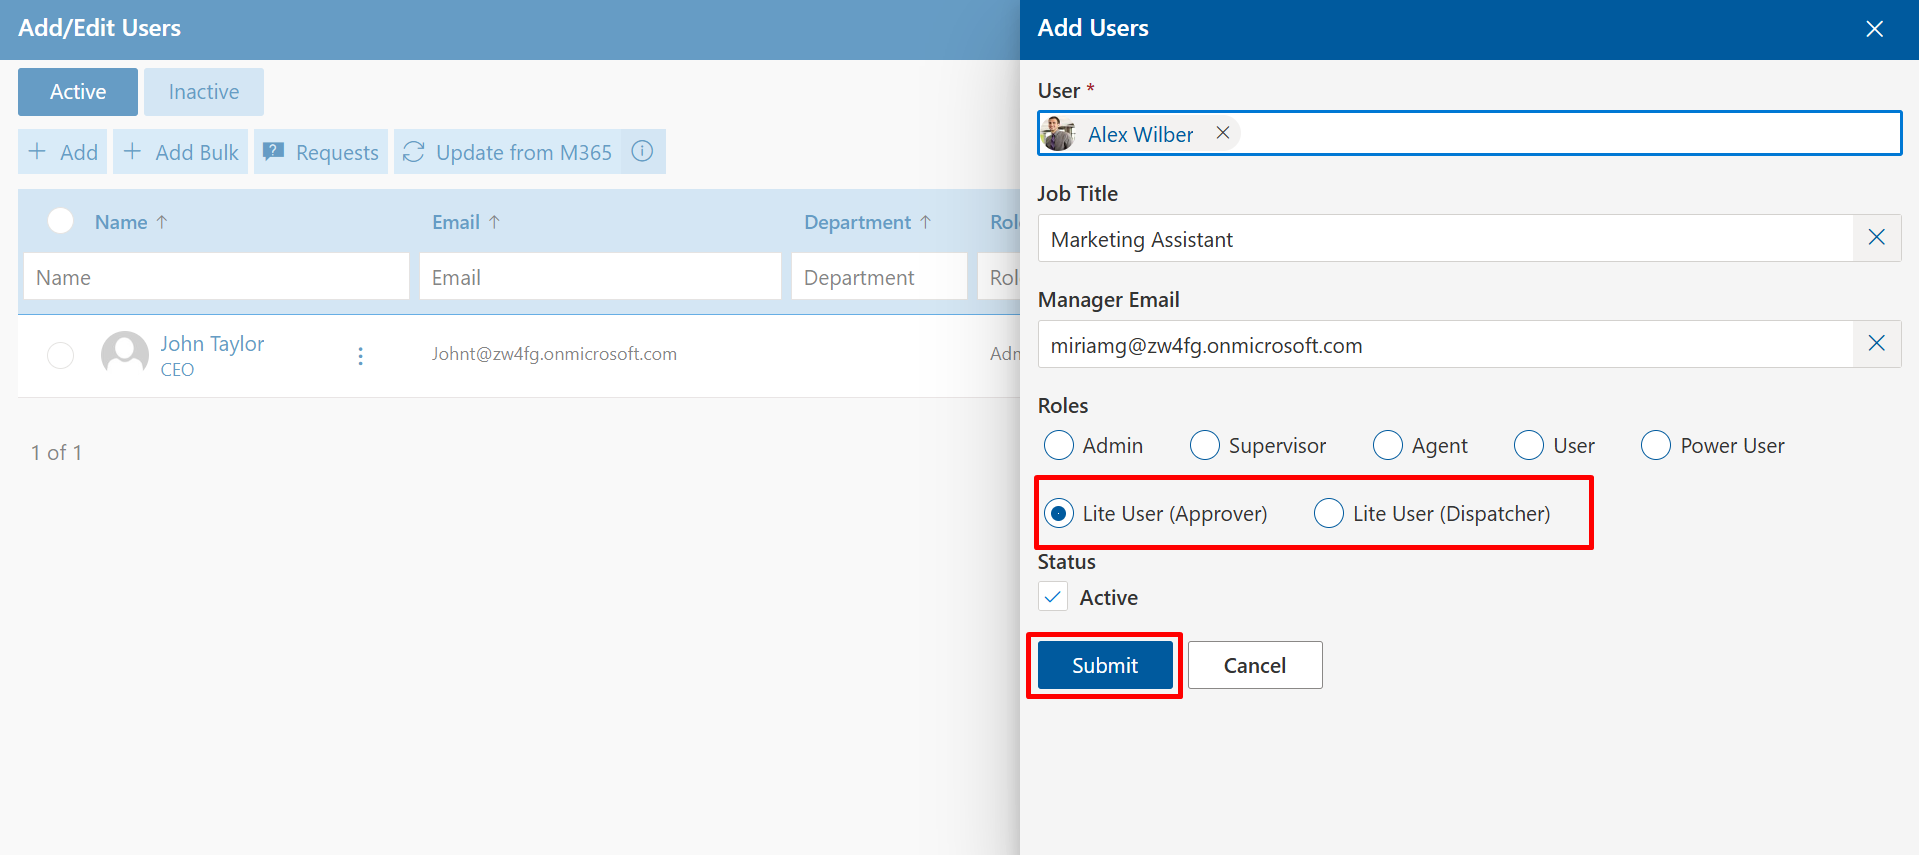
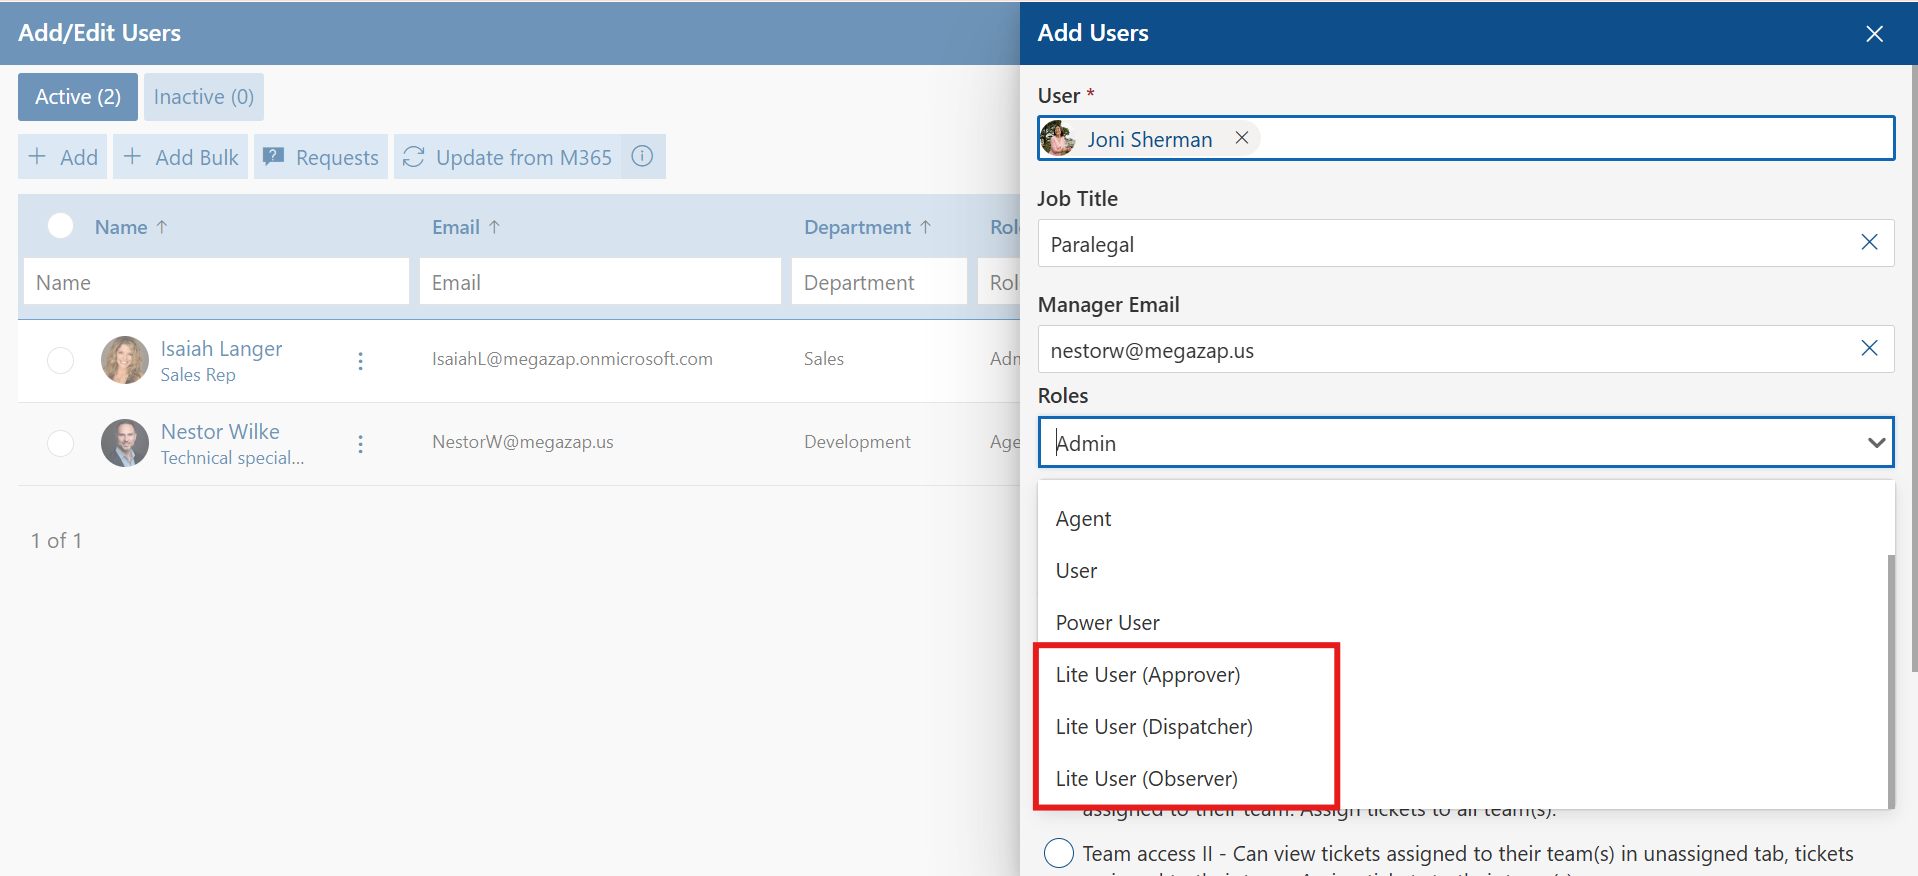
KB

diff --git a/sharepoint-helpdesk/modern/admin/settings/role/index.html b/sharepoint-helpdesk/modern/admin/settings/role/index.html
@@ -201,9 +201,9 @@
                                                 <i class="fas fa-link" style="font-size:12px; color:lightgray;"></i></a>
                                         </h2>
                                     </ul>
-                                    <p>In the <b> Add User</b> section, there are two types of Lite Users available:
+                                    <p>In the <b> Add User</b> section, there are three types of Lite Users available:
                                         <b> Lite User
-                                            Approver </b> and <b> Lite User Dispatcher</b>.
+                                            Approver </b>, <b> Lite User Dispatcher</b> and <b>Light User Observer</b>.
                                     </p>
                                     <div><img src="liteuser.png" onclick="openModal('liteuserpng')" alt="Add users"
                                             width="100%" height="auto"></div>
@@ -220,9 +220,15 @@
                                     <br>
                                     <p>Their name does not appear in the Assigned To dropdowns.</p>
                                     <div><img src="not-Assigned.png" onclick="openModal('not-Assigned.png')"
-                                            alt="Add users" width="100%" height="auto"></div>
+                                            alt="Add users" width="100%" height="auto"></div><br>
+                                             <p>The Lite User Observer is a view-only role with restricted access. They can monitor tickets and activities but cannot perform any actions such as approvals, edits, or assignments. This role is ideal for stakeholders or auditors who need read-only access to system data.</p>
+    <br>
+
+       <div>
+        <img src="lig.png" onclick="openModal('lig.png')" alt="User role counts" width="100%" height="auto">
+    </div>
                                     <p>The Help page displays the count of Lite User Approvers and Lite User
-                                        Dispatchers.</p>
+                                        Dispatchers and Lite User Observer.</p>
                                     <div><img src="usercansee.png" onclick="openModal('usercansee.png')" alt="Add users"
                                             width="100%" height="auto"></div>
 

diff --git a/Civic365/modern/admin/settings/general/index.html b/Civic365/modern/admin/settings/general/index.html
@@ -316,6 +316,23 @@
                                 </p>
                                 <div><img src="select_lang.png" onclick="openModal('select_lang.png')"
                                         alt="Language selection" width="100%" height="auto"></div>
+                                        <div><img src="select_lang.png" onclick="openModal('select_lang.png')"
+                                                alt="Language selection" width="100%" height="auto"></div>
+                                                <p>Support for Hebrew and Arabic languages has been added to enhance multilingual accessibility within the application.</p>
+                               <div><img src="He.png" onclick="openModal('He.png')" alt="show projects" width="100%"
+                                        height="auto"></div>
+<br>
+                                        <p>When Hebrew is selected as the preferred language, the application interface will automatically update to Hebrew.</p>
+                               <div><img src="Heb3.png" onclick="openModal('Heb3.png')" alt="show projects" width="100%"
+                                        height="auto"></div><br>
+                                         <div><img src="Heb2.png" onclick="openModal('Heb2.png')" alt="show projects" width="100%"
+                                        height="auto"></div><br>
+                                        <p>When Arabic is selected as the preferred language, the application interface will automatically update to Arabic.</p>
+                               <div><img src="Heb1.png" onclick="openModal('Heb1.png')" alt="show projects" width="100%"
+                                        height="auto"></div><br>
+                                         <div><img src="Heb4.png" onclick="openModal('Heb4.png')" alt="show projects" width="100%"
+                                        height="auto"></div>
+                                    </ul>
                         </div>
                         <div class="bg-light p-4 remove-padding common-scroll" id="naming-convention">
                             <ul class=page-list>

diff --git a/sharepoint-employee-onboarding/modern/admin/setting/Features/index.html b/sharepoint-employee-onboarding/modern/admin/setting/Features/index.html
@@ -75,8 +75,8 @@
                 <div class=col-lg-3>
                     <div class=sidebar>
                         <h5 class="mbHeading" style="color:SlateBlue"><a
-                                href="../../../../sharepoint-employee-onboarding/">Employee Onboarding 365</a></h5>
-                        <a class=back-btn href="../../../../sharepoint-employee-onboarding/" aria-label=back></a>
+                                href="../../../../../sharepoint-employee-onboarding/">Employee Onboarding 365</a></h5>
+                        <a class=back-btn href="../../../../../sharepoint-employee-onboarding/" aria-label=back></a>
                         <ul class=list-styled>
                             <li data-nav-id=https://github.com/hr365docs/My-project.git/installation/
                                 title=" Admin Guide" class="sidelist
@@ -218,6 +218,13 @@
 
                                     <li>Add The Options Accordingly. And Click on Save icon</li><br>
                                     <div><img src="14.png" onclick="openModal('14.png')" alt="Add users" width="100%"
+                                            height="auto"><br>
+                                    </div>
+                                     <li> An approval workflow has been introduced specifically for the <b>Pre-Onboarding</b> process. This allows designated approvers to review and approve candidate details before transitioning to the Onboarding stage.</li><br>
+                                 <div><img src="1.png" onclick="openModal('1.png')" alt="Add users" width="100%"
+                                            height="auto"><br>
+                                    </div>
+                                    <div><img src="2.png" onclick="openModal('2.png')" alt="Add users" width="100%"
                                             height="auto"><br>
                                     </div>
                             </div>

diff --git a/sharepoint-employee-onboarding/modern/admin/home/index.html b/sharepoint-employee-onboarding/modern/admin/home/index.html
@@ -150,6 +150,18 @@
                     <div><img src="28.png" onclick="openModal('28.png')" alt="home page" width="100%">
                     </div> <br>
 
+                    <li> The system now supports automatic transition from <b>Pre-Onboarding</b> to <b>Onboarding</b> upon approval.</li>
+                   <br>
+<p>1) Click on the employee’s name from the Pre-Onboarding list. Select the <b>“Move to Onboarding”</b> option.</p><br>
+ <div><img src="1.png" onclick="openModal('1.png')" alt="home page" width="100%">
+                    </div> <br>
+<p>2)Complete the required details and confirm by clicking the <b>“Yes”</b> button. </p><br>
+ <div><img src="2.png" onclick="openModal('2.png')" alt="home page" width="100%">
+                    </div> <br>
+<p>3)  The candidate will then be automatically transitioned to the Onboarding stage.</p><br>
+ <div><img src="3.png" onclick="openModal('3.png')" alt="home page" width="100%">
+                    </div> <br>
+
 
 
 

diff --git a/RM365/modern/admin/introduction/index.html b/RM365/modern/admin/introduction/index.html
@@ -91,7 +91,7 @@
                     <div class=sidebar>
                         <h5 class="mbHeading" style="color:SlateBlue"> <a href="../../../../RM365/">Recruitment
                                 Management 365</a></h5>
-                        <a class=back-btn href="../../../../contract-management/" aria-label=back></a>
+                        <a class=back-btn href="../../../../RM365/" aria-label=back></a>
 
                         <ul class=list-styled>
                             <li data-nav-id=../Time-off-manager/index.html title="Admin Guide" class="sidelist active">

diff --git a/RM365/modern/admin/settings/Email-configration/index.html b/RM365/modern/admin/settings/Email-configration/index.html
@@ -91,7 +91,7 @@
                     <div class=sidebar>
                         <h5 class="mbHeading" style="color:SlateBlue"> <a href="../../../../../RM365/">Recruitment
                                 Management 365</a></h5>
-                        <a class=back-btn href="../../../../contract-management/" aria-label=back></a>
+                        <a class=back-btn href="../../../../../RM365/" aria-label=back></a>
                         <ul class=list-styled>
                             <li data-nav-id="" title=Admin-Guide class="sidelist
 active">

diff --git a/RM365/modern/admin/settings/general-setting/index.html b/RM365/modern/admin/settings/general-setting/index.html
@@ -90,7 +90,7 @@
                     <div class=sidebar>
                         <h5 class="mbHeading" style="color:SlateBlue"> <a href="../../../../../RM365/">Recruitment
                                 Management 365</a></h5>
-                        <a class=back-btn href="../../../../contract-management/" aria-label=back></a>
+                        <a class=back-btn href="../../../../../RM365/" aria-label=back></a>
                         <ul class=list-styled>
                             <li data-nav-id="" title=Admin-Guide class="sidelist
 active">

diff --git a/RM365/modern/admin/settings/users-departments/index.html b/RM365/modern/admin/settings/users-departments/index.html
@@ -91,7 +91,7 @@
                     <div class=sidebar>
                         <h5 class="mbHeading" style="color:SlateBlue"> <a href="../../../../../RM365/">Recruitment
                                 Management 365</a></h5>
-                        <a class=back-btn href="../../../../contract-management/" aria-label=back></a>
+                        <a class=back-btn href="../../../../../RM365/" aria-label=back></a>
                         <ul class=list-styled>
                             <li data-nav-id="" title=Admin-Guide class="sidelist
 active">
